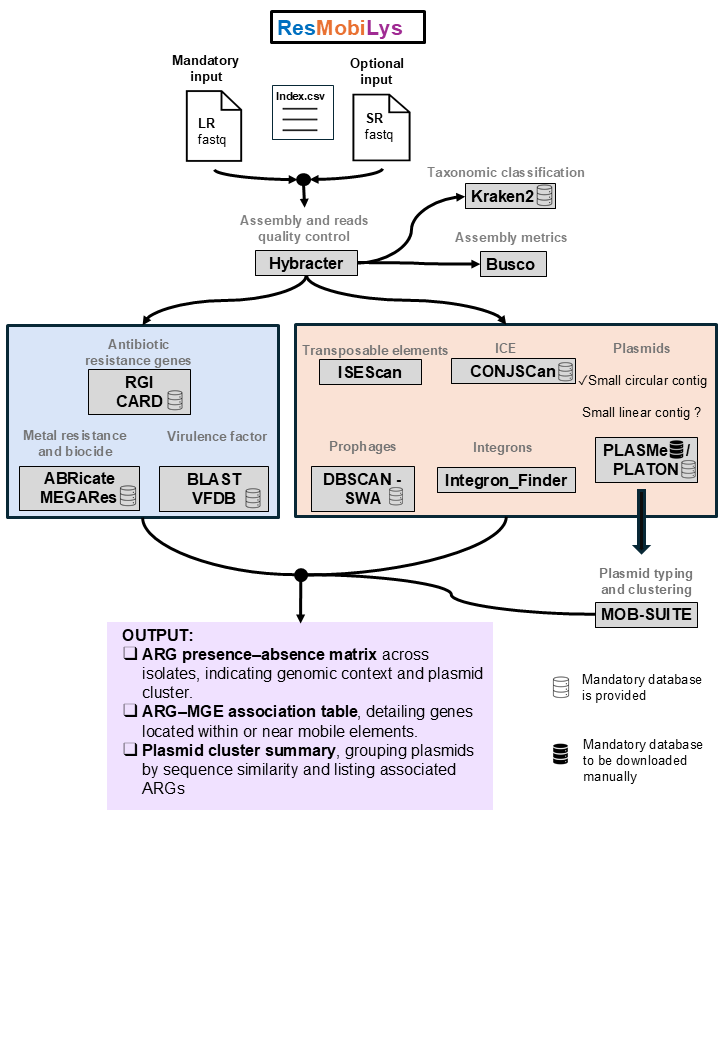
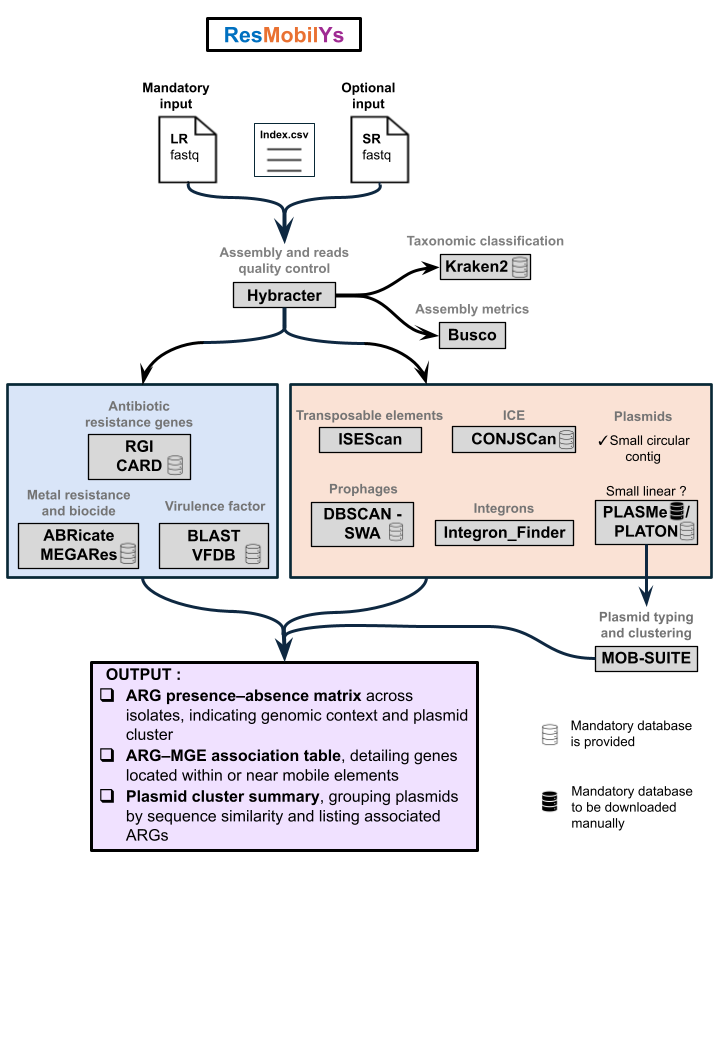
paper image correction

diff --git a/paper/paper.md b/paper/paper.md
@@ -37,6 +37,7 @@ bibliography: paper.bib
 # Summary  
 Mobile Genetic Elements (MGEs) are DNA segments that can move within or between genomes, enabling the transfer of genetic material between cells of the same or different species. MGEs play a crucial role in microbial ecology by facilitating the spread of genes with diverse functions across microbial populations [@ranking_what_2011]. Among them, antimicrobial resistance (AMR) genes represent a major public health concern. A recent global study estimated that in 2019, approximately 5 million deaths were associated with AMR [@murray_global_2022]. Projections suggest that this could rise to 10 million deaths by 2050 [@thompson_staggering_2022]. Besides AMR, MGEs also carry virulence factors (VFs) and heavy metal resistance genes, which enhance bacterial pathogenicity and environmental adaptation [@morales_role_2023].
 Advances in high-throughput sequencing now enable large-scale sequencing of diverse bacterial isolates from human, animal, and environment sources, generating large datasets that require automated and integrated analyses to produce interpretable outputs.  
+
 For this purpose, we developed ResMobilYs, an end-to-end Nextflow workflow (https://github.com/NjivaAndriamanga/resmobilys) that performs de novo assembly and identifies MGEs, including plasmids, integrons, prophages, integrative and conjugative elements (ICEs), and transposable elements. ResMobilYs integrates tools designated to operate across the wide diversity of bacterial taxa and simultaneously detects antibiotic resistance genes (ARGs), virulence factor, and heavy metal resistance genes, providing an integrated analysis of the mobilome and associated resistome in field and clinical Eubacteria isolates.
 
 # Statement of need  
@@ -76,8 +77,7 @@ At the global level, it generates:
 - A list of ARG–MGE associations, highlighting genes located within mobile elements.
 - A plasmid cluster summary, grouping plasmids by sequence similarity and their associated ARGs.
 
-### Figures
-![Figure 1](resmobilys_paper.png)
+![**Figure 1:** Overview of ResMobilYs pipeline ](resmobilys_paper.png)
 
 # Discussions
 ResMobiLys provides a comprehensive and scalable framework for mobilome and resistome analysis, with particular strengths in plasmid recovery, clustering, and comparative analysis across diverse bacterial taxa. However, accurate delimitation of some MGEs remains challenging, especially for elements with variable boundaries or complex architectures. As knowledge of MGEs continues to evolve, the modular Nextflow design of ResMobiLys facilitates straightforward integration of improved methods, ensuring long-term adaptability and relevance of the workflow.
